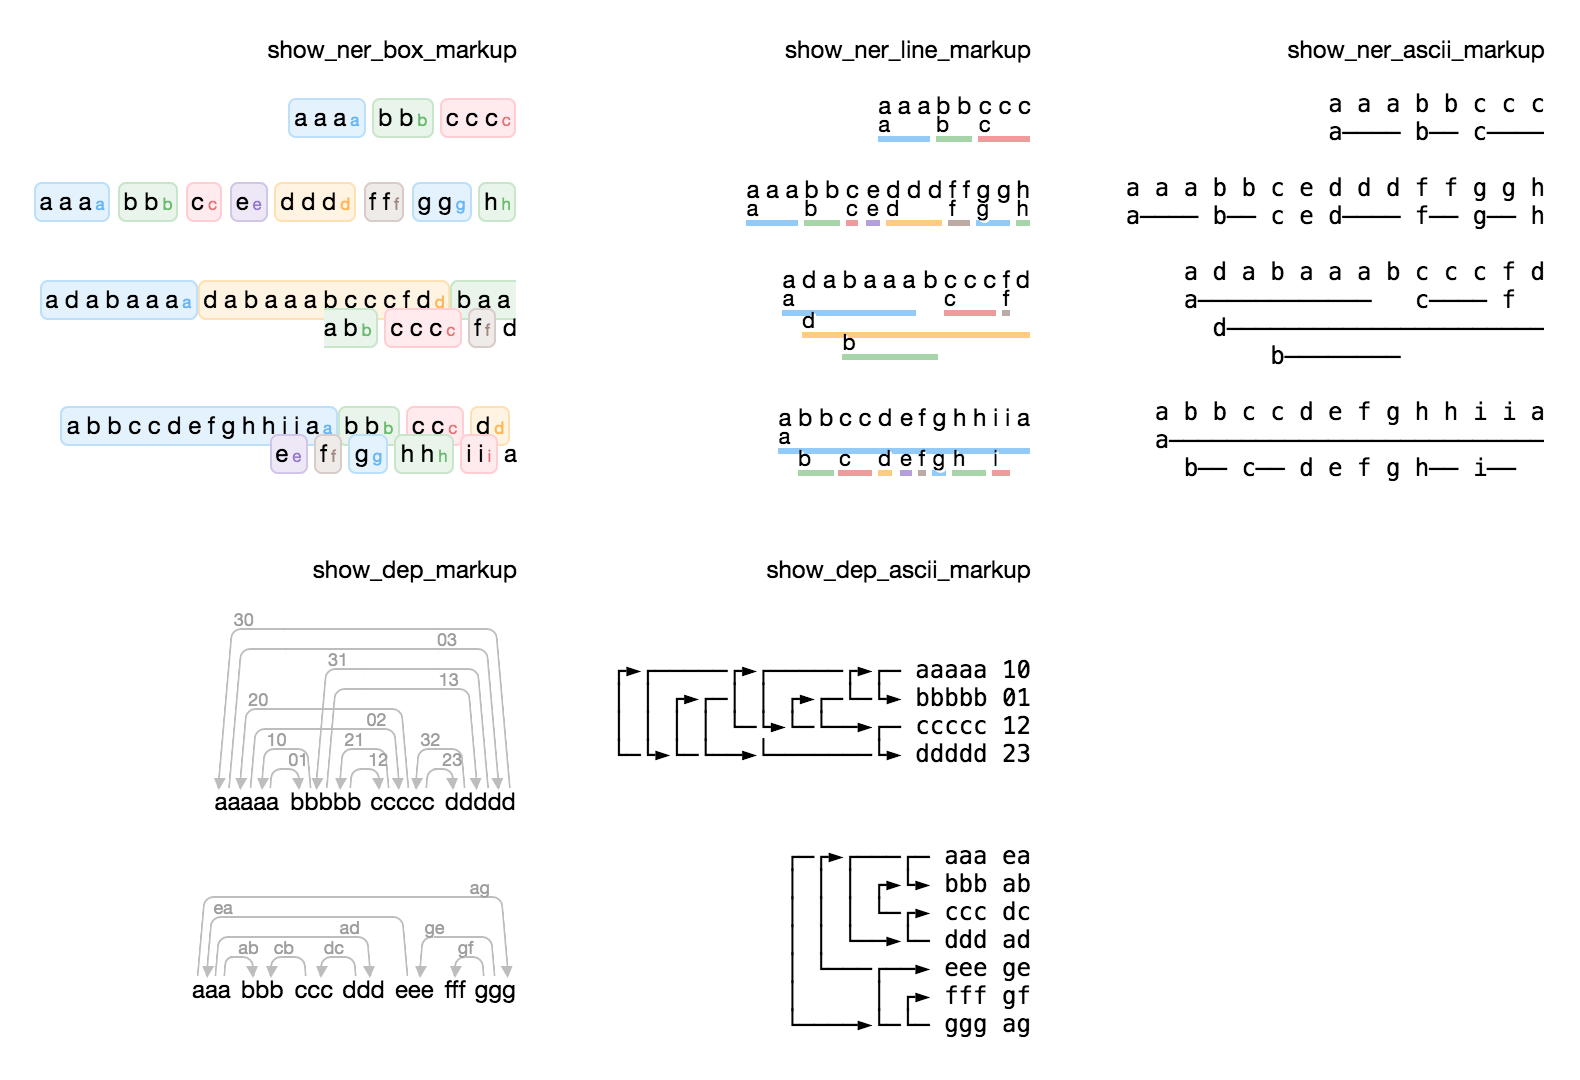
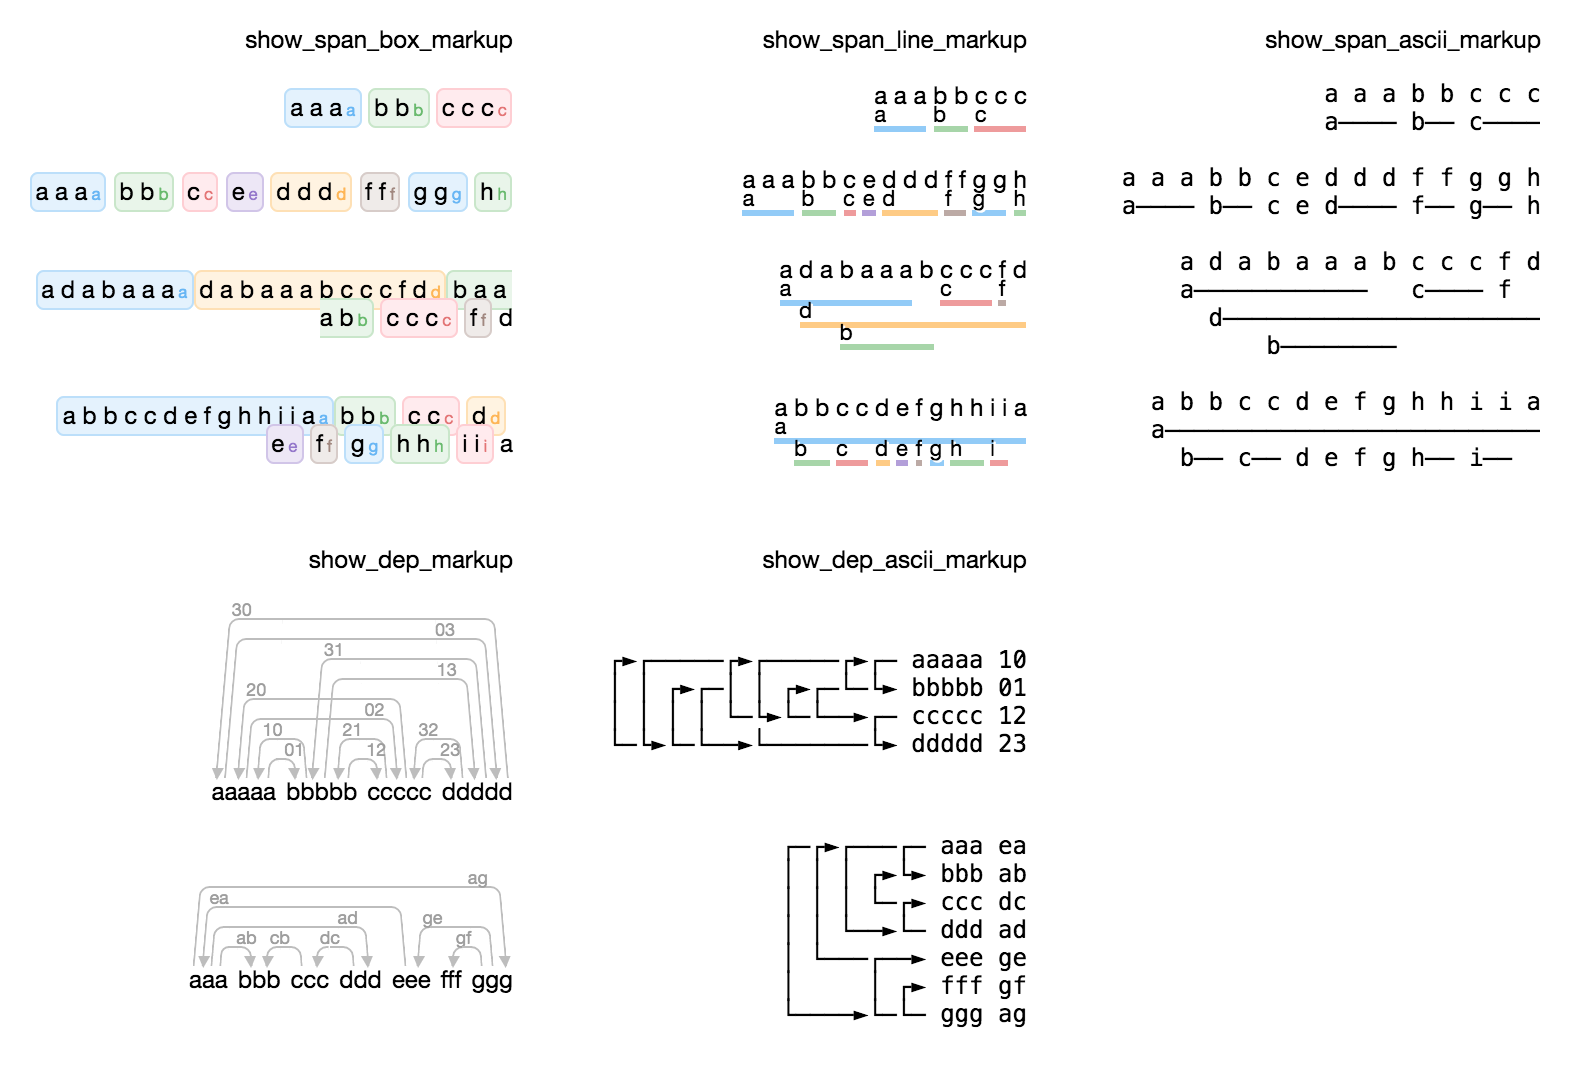
ner -> span

diff --git a/ipymarkup/demo.py b/ipymarkup/demo.py
@@ -2,11 +2,11 @@
 import re
 
 from .show import show_html
-from .ner import (
+from .span import (
     Span,
-    format_ner_box_markup,
-    format_ner_line_markup,
-    format_ner_ascii_markup,
+    format_span_box_markup,
+    format_span_line_markup,
+    format_span_ascii_markup,
 )
 from .dep import (
     Dep,
@@ -35,7 +35,7 @@ def generate_spans(text):
             yield Span(start, stop, type=char)
 
 
-def generate_ner_cases():
+def generate_span_cases():
     text = 'a a a b b c c c'
     spans = list(generate_spans(text))
     yield text, spans
@@ -89,10 +89,10 @@ def init_palette(palette, types='abcdefghijklmno'):
 init_palette(PALETTE)
 
 
-NER_FORMATS = [
-    format_ner_box_markup,
-    format_ner_line_markup,
-    format_ner_ascii_markup
+SPAN_FORMATS = [
+    format_span_box_markup,
+    format_span_line_markup,
+    format_span_ascii_markup
 ]
 DEP_FORMATS = [
     format_dep_markup,
@@ -106,9 +106,9 @@ def ascii_html(lines):
     yield '</pre>'
 
 
-def generate_ner_cell(format, text, spans):
+def generate_span_cell(format, text, spans):
     lines = format(text, spans)
-    if format == format_ner_ascii_markup:
+    if format == format_span_ascii_markup:
         lines = ascii_html(lines)
     for line in lines:
         yield line
@@ -122,10 +122,10 @@ def generate_dep_cell(format, words, deps):
         yield line
 
 
-def generate_ner_row(case):
+def generate_span_row(case):
     text, spans = case
-    for format in NER_FORMATS:
-        yield ''.join(generate_ner_cell(format, text, spans))
+    for format in SPAN_FORMATS:
+        yield ''.join(generate_span_cell(format, text, spans))
 
 
 def generate_dep_row(case):
@@ -141,9 +141,9 @@ def format_header(formats):
 
 
 def generate_table():
-    yield format_header(NER_FORMATS)
-    for case in generate_ner_cases():
-        yield generate_ner_row(case)
+    yield format_header(SPAN_FORMATS)
+    for case in generate_span_cases():
+        yield generate_span_row(case)
 
     yield format_header(DEP_FORMATS)
     for case in generate_dep_cases():

diff --git a/ipymarkup/span.py b/ipymarkup/span.py
@@ -197,7 +197,7 @@ def wrap_multilines(text, multilines, width):
 ######
 
 
-def format_ner_box_markup(text, spans, palette=PALETTE):
+def format_span_box_markup(text, spans, palette=PALETTE):
     spans = order_spans(prepare_spans(spans))
 
     yield (
@@ -240,9 +240,9 @@ def format_ner_box_markup(text, spans, palette=PALETTE):
     yield '</div>'
 
 
-def format_ner_line_markup(text, spans, palette=PALETTE,
-                           width=80, line_gap=8, line_width=3,
-                           label_size=11, background='white'):
+def format_span_line_markup(text, spans, palette=PALETTE,
+                            width=80, line_gap=8, line_width=3,
+                            label_size=11, background='white'):
     spans = order_spans(prepare_spans(spans))
     multilines = list(get_multilines(spans))
 
@@ -316,7 +316,7 @@ def format_ner_line_markup(text, spans, palette=PALETTE,
     yield '</div>'
 
 
-def format_ner_ascii_markup(text, spans, width=70):
+def format_span_ascii_markup(text, spans, width=70):
     spans = order_spans(prepare_spans(spans))
     multilines = list(get_multilines(spans))
 
@@ -358,16 +358,16 @@ def format_ner_ascii_markup(text, spans, width=70):
 #######
 
 
-def show_ner_box_markup(text, spans, **kwargs):
-    lines = format_ner_box_markup(text, spans, **kwargs)
+def show_span_box_markup(text, spans, **kwargs):
+    lines = format_span_box_markup(text, spans, **kwargs)
     show_html(lines)
 
 
-def show_ner_line_markup(text, spans, **kwargs):
-    lines = format_ner_line_markup(text, spans, **kwargs)
+def show_span_line_markup(text, spans, **kwargs):
+    lines = format_span_line_markup(text, spans, **kwargs)
     show_html(lines)
 
 
-def show_ner_ascii_markup(text, spans, **kwargs):
-    for line in format_ner_ascii_markup(text, spans, **kwargs):
+def show_span_ascii_markup(text, spans, **kwargs):
+    for line in format_span_ascii_markup(text, spans, **kwargs):
         print(line)

diff --git a/ipymarkup/__init__.py b/ipymarkup/__init__.py
@@ -1,13 +1,13 @@
 
-from .ner import format_ner_box_markup, show_ner_box_markup  # noqa
-from .ner import format_ner_line_markup, show_ner_line_markup  # noqa
-from .ner import format_ner_ascii_markup, show_ner_ascii_markup  # noqa
+from .span import format_span_box_markup, show_span_box_markup  # noqa
+from .span import format_span_line_markup, show_span_line_markup  # noqa
+from .span import format_span_ascii_markup, show_span_ascii_markup  # noqa
 
 from .dep import format_dep_markup, show_dep_markup  # noqa
 from .dep import format_dep_ascii_markup, show_dep_ascii_markup  # noqa
 
 
 # legacy
-show_box_markup = show_ner_box_markup
-show_line_markup = show_ner_line_markup
-show_ascii_markup = show_ner_ascii_markup
+show_box_markup = show_span_box_markup
+show_line_markup = show_span_line_markup
+show_ascii_markup = show_span_ascii_markup
